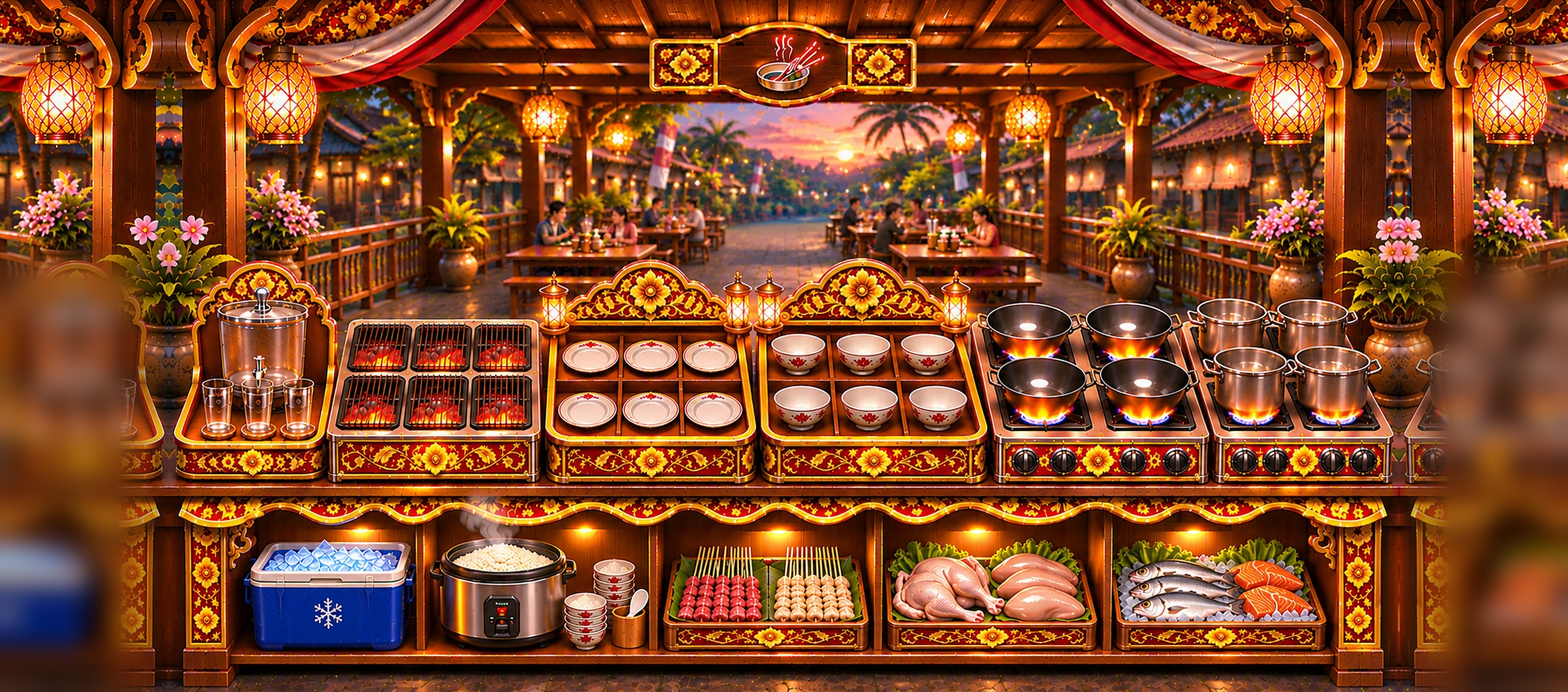
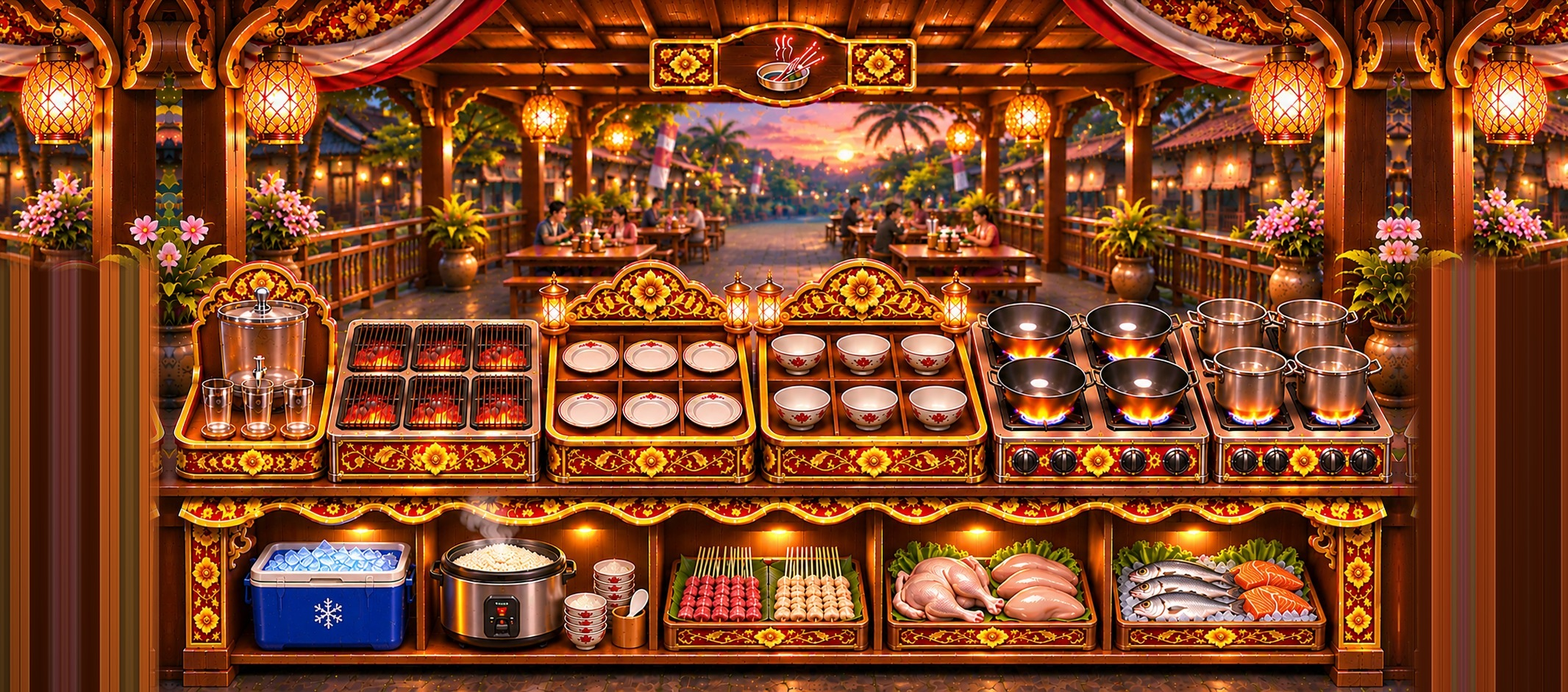
Ganti pad latar buram dengan panel kayu polos
Claude-Session: https://claude.ai/code/session_011EntzXR2BpcjDYDQYm7Xs9

Changed region(s): [[0.0, 0.339, 0.1238, 1.0], [0.8977, 0.339, 1.0, 1.0]]

diff --git a/docs/CHANGELOG.md b/docs/CHANGELOG.md
@@ -240,3 +240,10 @@
 - Tes baru: HUD tidak saling bertumpuk, tidak menabrak emblem, panel tidak menutupi gelembung pelanggan ke-4.
 - Platform yang diuji: render headless 1920/2160/2340/2400 x 1080; belum diuji di perangkat nyata.
 - Hasil tes: 6 suite 0 gagal.
+
+## 2026-11-15 - Pinggir latar (pad) tidak lagi buram
+- File: assets/scene_indonesia.jpg
+- Alasan: area pad kiri/kanan sebelumnya di-blur sehingga terlihat buram di layar lebar.
+- Dampak: pad bagian peralatan kini panel kayu polos (tanpa blur, tanpa duplikat alat); bagian atas tetap hasil cermin.
+- Platform yang diuji: render 20:9 (2400x1080)
+- Hasil tes: responsive_layout_test & gameplay_scene_test 0 gagal; belum diuji di HP asli.
